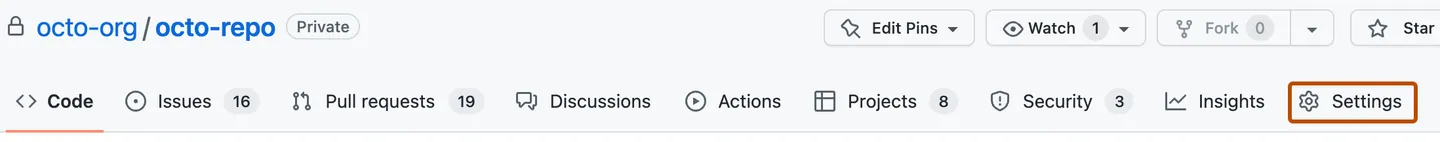
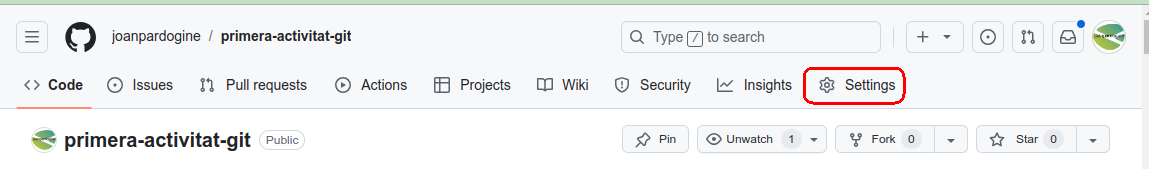
modified: README.md i afegides més imatges!

diff --git a/README.md b/README.md
@@ -573,27 +573,32 @@ nothing added to commit but untracked files present (use "git add" to track)
 
 Podeu enviar una invitació per col·laborar al vostre repositori directament a algú a GitHub.
 
-**1.** Demana el nom d'usuari de la persona que estàs convidant com a col·laborador.
+**1.** Demana el **nom d'usuari** de la persona que estàs convidant com a col·laborador.
 
 **2.** A GitHub, navegueu a la pàgina principal del repositori.
 
 **3.** Sota el nom del repositori, feu clic a **`Settings`**.
 
-![alt text](./images/image.png)
+![alt text](image.png)
+
 
 Si no podeu veure la pestanya **`Settings`**, seleccioneu el menú desplegable i feu clic a **`Settings`**.
 
-![alt text](./images/image-1.png)
+![alt text](./images/image-7.png)
+
 
 **4.** A la secció **`Access`** de la barra lateral, feu clic a **`Collaborators and teams`**.
-
-![alt text](./images/image-2.png)
+![alt text](./images/image-1.png)
 
 Feu clic a <kbd>Add people</kbd>.
 
+![alt text](./images/image-2.png)
+
+Al camp de cerca, comenceu a escriure el nom de la persona que voleu convidar 
+
 ![alt text](./images/image-4.png)
 
-Al camp de cerca, comenceu a escriure el nom de la persona que voleu convidar i, a continuació, feu clic a un nom a la llista de coincidències.
+i, a continuació, feu clic a un nom a la llista de coincidències.
 
 ![alt text](./images/image-3.png)
 
